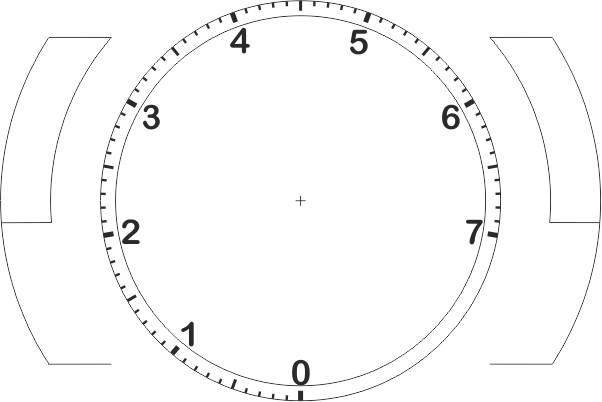
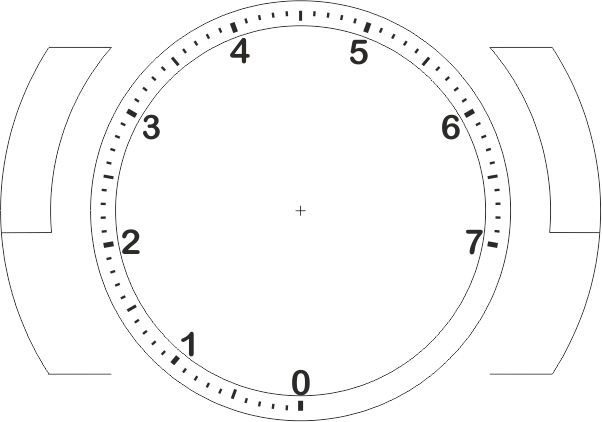
-

diff --git a/Tachometer.qml b/Tachometer.qml
@@ -3,8 +3,8 @@ import QtQuick 2.8
 Item {
     id: tacho
     property alias rotation: needle.rotation
-    width: 602
-    height: 410
+    width: 604
+    height: 424
     anchors.centerIn: parent
 
     Image {
